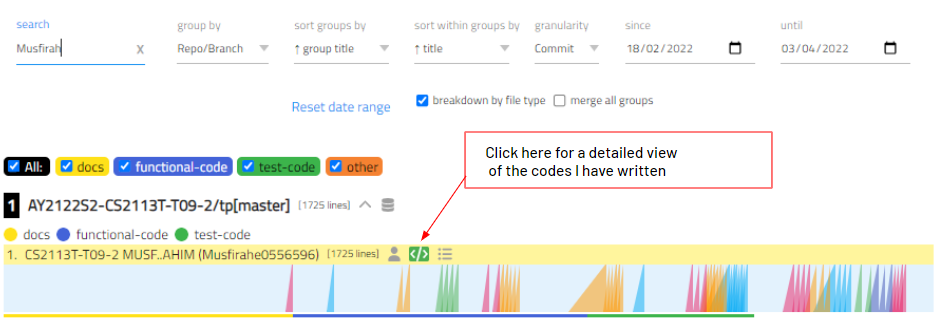
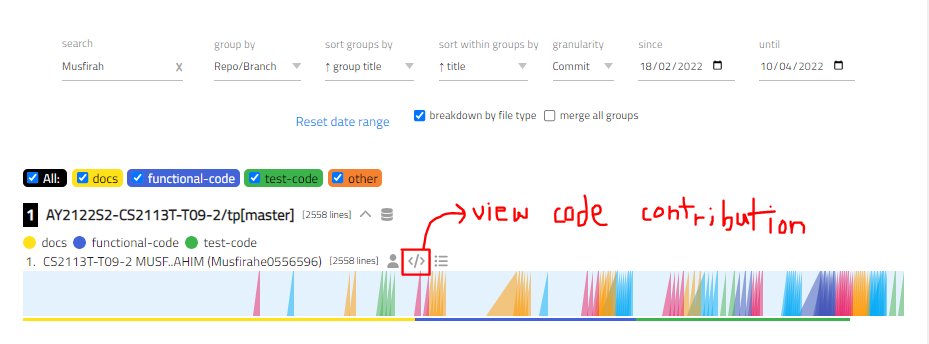
Edit PPP

diff --git a/docs/team/musfirahe0556596.md b/docs/team/musfirahe0556596.md
@@ -21,102 +21,107 @@ hosted by the module coordinators of CS2113T.
 ![tP Code Dashboard](../images/ppp/musfirahe0556596/tpCodeDashboard.PNG)
 
 A summary of my code contributions are as follows:
-- Implemented the `deleteWorkout()` method for workouts.
+- Implemented the `deleteWorkout()` method for workouts under `WorkoutList.java`.
   This includes logging, assertions and handling of exceptions in the method.
 - Contributed to some parts of `WorkoutCommand.java`.
   The code for calling of the `WorkoutList#deleteWorkout()` method
-  in the `WorkoutCommand` class was also added in the `WorkoutList` class.
+  in the `WorkoutCommand` class was added.
 - Contributed to some parts of the `UI` such as the
   `printDeleteWorkoutMessage()` and `printNewPlanCreatedMessage()` methods.
-- Contributed to some code in exception-related files such as 
-`InvalidCommandException` and mostly in `InvalidPlanException`.
+- Contributed to some code in exception-related files such as
+  `InvalidCommandException` and mostly in `InvalidPlanException`.
 - Contributed most to the creation of `Plan` related classes such as
-`Plan`, `PlanCommand` and `PlanList`. For `PlanList`, contributed to small methods
-and also the main plan features like the creation of plans (`createAndAddPlan()`)
-and listing of all plans (`listAllPlan()`).
-- Implemented the HashMap data structure in `PlanList` API, 
-referenced from team member Alan's implementation.
+  `Plan`, `PlanCommand` and `PlanList`. For `PlanList`, contributed to small methods
+  and also the main plan features like the creation of plans (`createNewPlan()` and `addNewPlanToLists()`)
+  and listing of all plans (`listAllPlan()`).
+- Implemented the HashMap data structure in `PlanList` API,
+  referenced from team member Alan's implementation.
 - Wrote parts of the `Parser` API, mainly the `createPlanCommand()` method and parts
-of the `createWorkoutCommand()` method.
+  of the `createWorkoutCommand()` method.
 - Wrote JUnit test cases for WerkIt! APIs such as the
-`PlanListTest`, `PlanCommandTest`, `ParserTest`, `WorkoutCommandTest` and `WorkoutListTest`.
-This is done to improve the code coverage of the team. Additionally, writing JUnit
-test cases for some test cases were difficult as it may require the application
-to modify files. Examples of particularly time-consuming test cases are provided below:
+  `PlanListTest`, `PlanCommandTest`, `ParserTest`, `WorkoutCommandTest` and `WorkoutListTest`.
+  This is done to improve the code coverage of the team. Additionally, writing JUnit
+  test cases for some test cases were difficult as it may require the application
+  to modify files. Examples of particularly time-consuming test cases are provided below:
   - Under `PlanCommandTest.java`: Writing test case to ensure plan is created successfully.
-  It wasn't an easy task because one needs to modify the `plans.txt` file and also create
-  plans with a unique name (thus, the `java.util.Random` class is used to help generate plan names with unique
-  names). The code can be found [here](https://github.com/AY2122S2-CS2113T-T09-2/tp/blob/master/src/test/java/commands/PlanCommandTest.java),
-  particularly the `execute_validCreatePlan_expectSuccess()` test case.
+    It wasn't an easy task because one needs to modify the `plans.txt` file and also create
+    plans with a unique name (thus, the `java.util.Random` class is used to help generate plan names with unique
+    names). The code can be found [here](https://github.com/AY2122S2-CS2113T-T09-2/tp/blob/master/src/test/java/commands/PlanCommandTest.java),
+    particularly the `execute_validCreatePlan_expectSuccess()` test case.
   - Under `WorkoutCommandTest.java`: Writing test case to ensure workouts are created and deleted
-  properly. Again, it wasn't an easy task because one needs to modify
-  the `workouts.txt` file. In addition, the test case for `delete` workout
-  requires one to keep track of the `plans.txt` file too due to the fact that plans containing the deleted workout gets
-  deleted too. The code can be found [here](https://github.com/AY2122S2-CS2113T-T09-2/tp/blob/master/src/test/java/commands/WorkoutCommandTest.java),
-  particularly the `execute_validCreateWorkout_expectSuccess()` and the `execute_validDeleteWorkout_expectSuccess()` test cases. 
-  - For both cases above, the PR can be found [here](https://github.com/AY2122S2-CS2113T-T09-2/tp).
+    properly. Again, it wasn't an easy task because one needs to modify
+    the `workouts.txt` file. In addition, the test case for `delete` workout
+    requires one to keep track of the `plans.txt` file too due to the fact that plans containing the deleted workout gets
+    deleted too. The code can be found [here](https://github.com/AY2122S2-CS2113T-T09-2/tp/blob/master/src/test/java/commands/WorkoutCommandTest.java),
+    particularly the `execute_validCreateWorkout_expectSuccess()` and the `execute_validDeleteWorkout_expectSuccess()` test cases.
+  - For both cases above, the PR can be found [here](https://github.com/AY2122S2-CS2113T-T09-2/tp/pull/251).
 - Wrote JavaDocs, assertions and logging for methods implemented.
 
-### Enhancements Implemented
-[to be updated]
-
 ### Contributions to the User Guide (UG)
+- Wrote parts of the [introduction](../UserGuide.md#introduction) by specifying target user clearly.
 - Wrote the guide on [deleting an existing workout](../UserGuide.md#delete-a-workout-workout-delete).
 - Wrote the guide on [creating a new plan](../UserGuide.md#create-a-plan-plan-new).
 - Wrote the guide on [listing of plans](../UserGuide.md#list-a-plan-plan-list).
 - Modified some parts of the [Quick Start Guide](../UserGuide.md#quick-start-guide) section.
 - Wrote parts of the table of contents.
+- Wrote parts of the command summary.
+- Contributed to a part of the [FAQ](../UserGuide.md#1-my-terminal-in-windows-is-displaying-weird-symbols-when-i-run-the-application),
+by suggesting that we should include what weird symbols in the terminal looks like (FAQ written by team member Alan).
 
 ### Contributions to the Developer Guide (DG)
 - Wrote the following contributions to the ['Implementation'](../DeveloperGuide.md#implementation) section:
   - How the application deletes an existing workout, including its design considerations
-  and sequence diagrams ([link](../DeveloperGuide.md#delete-existing-workout)).
+    and sequence diagrams ([link](../DeveloperGuide.md#delete-existing-workout)).
   - How the application creates a new plan, including its design considerations and
-  sequence diagrams ([link](../DeveloperGuide.md#create-a-new-plan)).
-  - How the application lists all plans, including its sequence diagrams 
-  ([link](../DeveloperGuide.md#list-plans)).
+    sequence diagrams ([link](../DeveloperGuide.md#create-a-new-plan)).
+  - How the application lists all plans, including its sequence diagrams
+    ([link](../DeveloperGuide.md#list-plans)).
 - Wrote the following contributions to the ['Design'](../DeveloperGuide.md#design) section:
   - Came up with the [Architecture Diagram](../DeveloperGuide.md#architecture-overview) of the application and described its overview.
-  - Wrote the `Logic` component of the architecture, including coming up with its diagrams [link](../DeveloperGuide.md#logic-component).
+  - Wrote the `Logic` component of the architecture, including coming up with its diagrams ([link](../DeveloperGuide.md#logic-component)).
   - Wrote the `Workout-related features` under the Feature Overview of the Design section, including coming up with its diagrams ([link](../DeveloperGuide.md#workout-related-features)).
-- Wrote part of the [glossary](../DeveloperGuide.md#glossary)
-- Wrote the [table of contents](../DeveloperGuide.md#table-of-contents).
+- Wrote part of the [glossary](../DeveloperGuide.md#glossary), by including what the term 'reps' means, 
+to address a [PE-D] bug [here](https://github.com/AY2122S2-CS2113T-T09-2/tp/issues/211).
+- Wrote parts of the [table of contents](../DeveloperGuide.md#table-of-contents).
 - Wrote parts of the [Instructions for manual testing](../DeveloperGuide.md#instructions-for-manual-testing).
-  - Wrote manual test cases for [deleting a workout](../DeveloperGuide.md#deleting-an-existing-workout),
-  [creating a plan](../DeveloperGuide.md#creating-a-new-plan) and [listing of plans](../DeveloperGuide.md#listing-all-plans).
+  - Wrote manual test cases for [launch and shutdown](../DeveloperGuide.md#launch-and-shutdown), [deleting a workout](../DeveloperGuide.md#deleting-an-existing-workout),
+    [creating a plan](../DeveloperGuide.md#creating-a-new-plan) and [listing of plans](../DeveloperGuide.md#listing-all-plans).
 
 ### Contributions to Team-Based Tasks
 - Maintained the team's Google Drive folder, which includes the team's project notebook
   and other documents for the co-requisite module CS2101.
 - Helped to maintain the team's GitHub repository issue tracker by creating issues and also linking
-them to the PRs that addresses the issue.
+  them to the PRs that addresses the issue.
 - Helped to maintain PRs by assigning them to the members who did the PR and also
-assigning them to their respective milestone (if team members forget to do these).
+  assigning them to their respective milestone (if team members forgot to do these).
 - Helped in release management of WerkIt! (for v1.0 and v2.0)
-- Participated and helped to fix general bugs with the team. 
-An example is the following [PR](https://github.com/AY2122S2-CS2113T-T09-2/tp/pull/44), whereby
-codes to handle empty workout descriptor errors are added. 
-Additionally, this [PR](https://github.com/AY2122S2-CS2113T-T09-2/tp/pull/293), whereby constants are renamed properly to maintain coding quality.
+- Participated and helped to fix general bugs with the team (this includes but not limited to):
+  - Added codes to handle empty workout descriptor errors in this [PR](https://github.com/AY2122S2-CS2113T-T09-2/tp/pull/44).
+  - Improved code quality by renaming constants properly under `PlanCommand.java` in this [PR](https://github.com/AY2122S2-CS2113T-T09-2/tp/pull/293).
+  - Improved code quality by refactoring the `PlanList#createAndAddPlan()` method in this [PR](https://github.com/AY2122S2-CS2113T-T09-2/tp/pull/310).
+  - Fix bugs related to `workout /delete` command, due to PE-D findings. [PR link](https://github.com/AY2122S2-CS2113T-T09-2/tp/pull/222).
+  - Fix bugs related to `plan /new` command, due to PE-D findings. [PR link](https://github.com/AY2122S2-CS2113T-T09-2/tp/pull/278).
+- Update both UG and DG table of contents together with team members.
 
 ### Review/Mentoring Contributions
 - Constantly reviewed and gave feedbacks to team members' pull requests.
-As of 06/04/2022, I have reviewed 68 out of 152 pull requests.
-Below is a screenshot of the number of PR reviews I had made, by 
-using the correct Github filters `is:pr reviewed-by:@me`:
+  As of 10/04/2022, I have reviewed 77 out of 205 pull requests.
+  Below is a screenshot of the number of PR reviews I have made, by
+  using the appropriate GitHub filters `is:pr reviewed-by:@me`:
 
 ![PR Reviews](../images/ppp/musfirahe0556596/PRReviews.PNG)
 
-In addition, review comments can also be seen at the CS2113T's tp Comment Dashboard [here](https://nus-cs2113-ay2122s2.github.io/dashboards/contents/tp-comments.html):
-Below is a screenshot of the tp Comment Dashboard, as of 06/04/2022:
+In addition, review comments done by me can also be seen at the CS2113T's tp Comment Dashboard [here](https://nus-cs2113-ay2122s2.github.io/dashboards/contents/tp-comments.html).
+Below is a screenshot of the tp Comment Dashboard, as of 10/04/2022:
 
 ![tp Comment Dashboard](../images/ppp/musfirahe0556596/tpCommentDashboard.PNG)
 
 
 ### Contributions Beyond the Project Team
 - Provided feedback and filed potential bug reports to another team's project (CS2113T-T10-1 SplitLah) as part
-of the Practical Exam Dry-Run (PED). In addition, provided detailed explanation of the bug found instead of just
-providing merely a screenshot of it with no explanations. Below
-are the potential bugs found:
+  of the Practical Exam Dry-Run (PED). In addition, provided detailed explanation of the bug found instead of just
+  providing merely a screenshot of it with no explanations. Below
+  are the potential bugs found:
   - [Bug report 1: Session name not unique across all active session after editing](https://github.com/Musfirahe0556596/ped/issues/1)
   - [Bug report 2: Cost did not divide equally when entering a specific value](https://github.com/Musfirahe0556596/ped/issues/2)
   - [Bug report 3: Activity name not unique across all activities in a session](https://github.com/Musfirahe0556596/ped/issues/3)
@@ -126,4 +131,10 @@ are the potential bugs found:
 ---
 
 ## Reflections on the Team Project (tP)
-[to be updated]
+All in all, I had a great time working with my CS2113T project team
+as all of us contributed their parts properly and worked very well together. The (almost everyday) Zoom meetings
+proved to be useful as all of us worked together to edit our documents, find bugs and
+address any potential concerns that team members may face. As all of us communicated
+our thoughts and gave opinions whenever in doubt, our team is able to compromise whenever
+there arises conflicts (our conflict is more to what is to be included in code/documents, not responsibility issues).
+Many thanks to the team, which consists of Alan, Emily, HaoFeng and Tianai. It was nice to be part of WerkIt! and being able to learn from one another.
